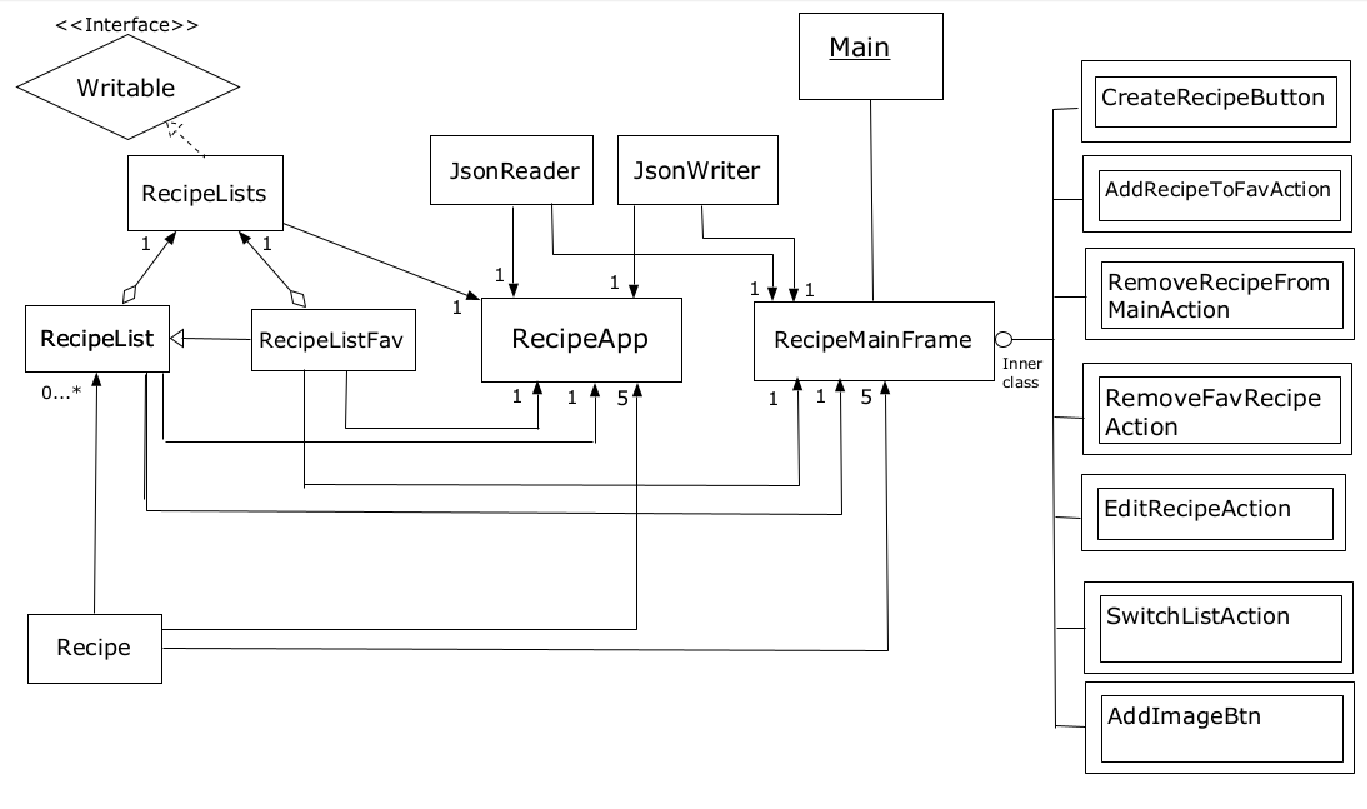
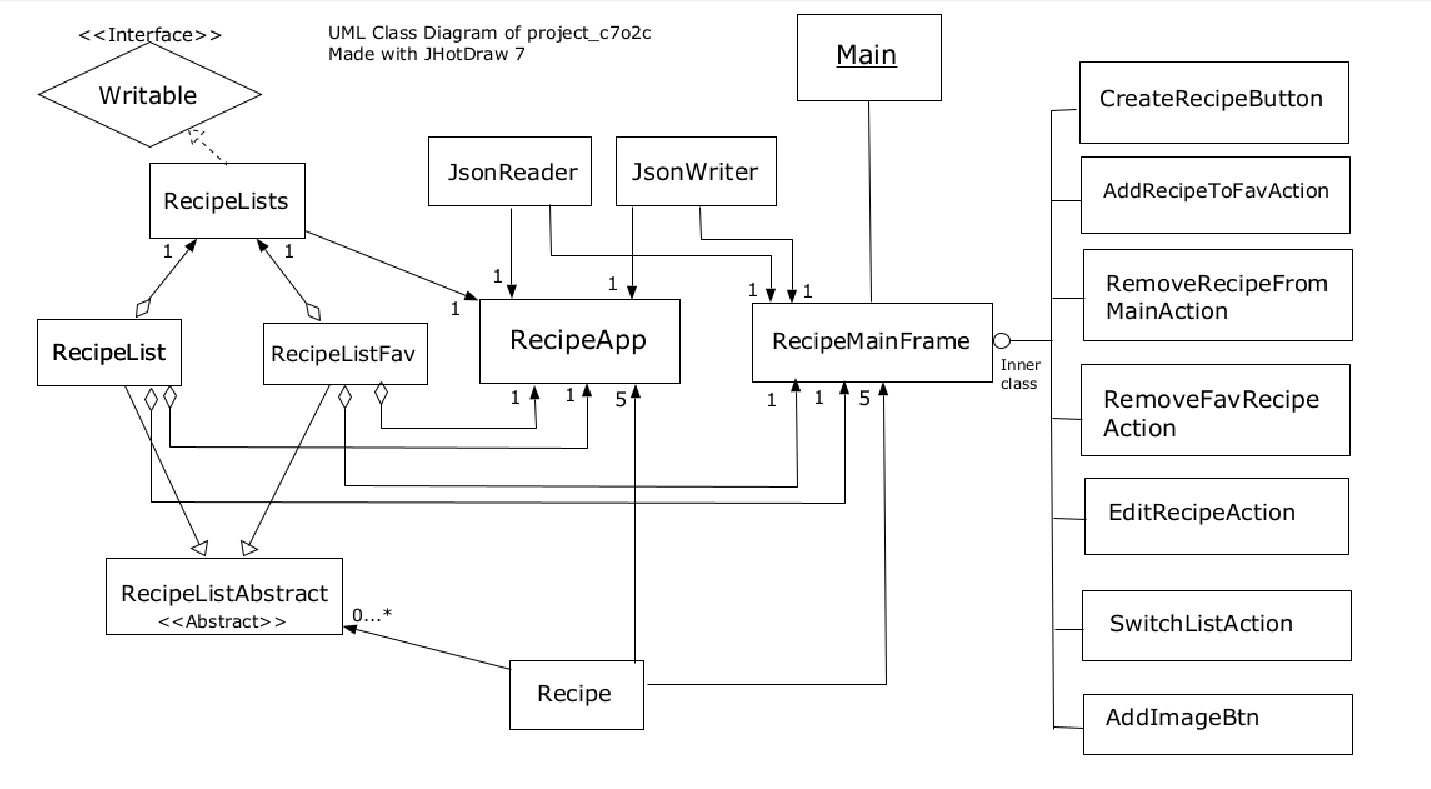
Added in an abstract class for recipe lists. Fixed event logging and improved implementation overall. Revised UML Design Diagram as a result.

diff --git a/src/main/model/RecipeList.java b/src/main/model/RecipeList.java
@@ -1,76 +1,36 @@
 package model;
 
-import java.util.ArrayList;
-import java.util.Collections;
-import java.util.List;
-
 /**
- * The main list of recipes. Users can add, remove, and search for recipes in this list.
+ * The main list of recipes.
+ * Users can add, remove, and search for recipes in this list.
  */
 
 // TODO:
-//  CHANGE: only allow one reference of the same recipe name in either list.
-//  Warn users of this and give option to change name
-public class RecipeList {
-    private String name;
-    private ArrayList<Recipe> recipeList;
+//  Change so removal of recipe in main list reflects on favourite list if recipe is also there.
+public class RecipeList extends RecipeListAbstract {
     private EventLog log = EventLog.getInstance();
 
-    // EFFECTS: creates the main recipe list with a name and an arrayList
+    // EFFECTS: creates the main recipe list
     public RecipeList(String name) {
-        this.name = name;
-        recipeList = new ArrayList<>();
+        super(name);
     }
 
-    // REQUIRES: assume that the recipe list doesn't already contain the same recipe
+    @Override
+    // REQUIRES: the recipe list doesn't already contain the same recipe
     // MODIFIES: this
-    // EFFECTS: adds recipe into the recipe list
+    // EFFECTS:  adds recipe into the recipe list
     public void addRecipe(Recipe recipe) {
-        recipeList.add(recipe);
+        super.addRecipe(recipe);
         log.logEvent(new Event("Added \"" + recipe.getRecipeName() + "\" into the main list!"));
     }
 
-    // !!! BUG: deleting reference from main list does not delete from favs
+    @Override
+    // !!! BUG: deleting recipe from main list does not delete from favs
     // REQUIRES: the recipe list to not be empty, assume recipe to be removed != null
     // MODIFIES: this
-    // EFFECTS: removes recipe from the recipe list
+    // EFFECTS:  removes recipe from the recipe list
     public void removeRecipe(Recipe recipe) {
-        recipeList.remove(recipe);
+        super.removeRecipe(recipe);
         log.logEvent(new Event("Removed \"" + recipe.getRecipeName() + "\" from the main list!"));
-    }
-
-    // REQUIRES: the recipe list to not be empty
-    // EFFECTS: searches the first recipe of the same name in the list, else returns null
-    public Recipe searchRecipe(String name) {
-        for (Recipe recipe : this.recipeList) {
-            if (recipe.getRecipeName().equalsIgnoreCase(name.toLowerCase())) {
-                return recipe;
-            }
-        }
-        return null;
-    }
-
-    // EFFECTS: returns the recipe at index (first recipe at 0)
-    public Recipe atIndex(int i) {
-        return recipeList.get(i);
-    }
-
-    // EFFECTS: returns a modifiable list of recipe list
-    public List<Recipe> getRecipeList() {
-        return this.recipeList;
-    }
-
-    // EFFECTS: returns an unmodifiable list of recipe list. Mainly for JSONWriter to save to JSON file
-    public List<Recipe> getRecipeListCollection() {
-        return Collections.unmodifiableList(recipeList);
-    }
-
-    // EFFECTS: returns size of the recipe list
-    public int size() {
-        return recipeList.size();
-    }
-
-    public String getName() {
-        return name;
     }
 }

diff --git a/src/main/persistence/JsonReader.java b/src/main/persistence/JsonReader.java
@@ -1,9 +1,6 @@
 package persistence;
 
-import model.Recipe;
-import model.RecipeList;
-import model.RecipeListFav;
-import model.RecipeLists;
+import model.*;
 import org.json.JSONArray;
 import org.json.JSONObject;
 
@@ -19,6 +16,7 @@ import java.util.stream.Stream;
  */
 public class JsonReader {
     private String source;
+    private EventLog log = EventLog.getInstance();
 
     // EFFECTS: constructs reader to read JSON data, with key from RecipeLists
     public JsonReader(String source) {
@@ -30,6 +28,8 @@ public class JsonReader {
     public RecipeLists read(String keyRecipeLists, String keyRecipeMain, String keyRecipeFav) throws IOException {
         String jsonData = readFile(source);
         JSONObject jsonObject = new JSONObject(jsonData);
+
+        log.logEvent(new Event("Loaded recipe list from file!"));
         return parseRecipeList(jsonObject, keyRecipeLists, keyRecipeMain, keyRecipeFav);
     }
 
@@ -40,7 +40,6 @@ public class JsonReader {
         try (Stream<String> stream = Files.lines(Paths.get(source), StandardCharsets.UTF_8)) {
             stream.forEach(s -> contentBuilder.append(s));
         }
-
         return contentBuilder.toString();
     }
 
@@ -60,7 +59,7 @@ public class JsonReader {
     }
 
     // EFFECTS: parses each recipe corresponding to its key in the JSON data and adds the recipes into the recipe list
-    private void addRecipes(RecipeList rl, JSONObject jsonObject) {
+    private void addRecipes(RecipeListAbstract rl, JSONObject jsonObject) {
         String key = rl.getName();
         JSONArray jsonArray = jsonObject.getJSONArray(key);
         for (Object json : jsonArray) {
@@ -70,7 +69,7 @@ public class JsonReader {
     }
 
     // EFFECTS: parses the recipe's field from the JSON object data and returns the recipe
-    private void addRecipe(RecipeList rl, JSONObject jsonObject) {
+    private void addRecipe(RecipeListAbstract rl, JSONObject jsonObject) {
         String name = jsonObject.getString("name");
         String category = jsonObject.getString("category");
         String ingredients = jsonObject.getString("ingredients");

diff --git a/src/main/model/RecipeListAbstract.java b/src/main/model/RecipeListAbstract.java
@@ -1,0 +1,67 @@
+package model;
+
+import java.util.ArrayList;
+import java.util.Collections;
+import java.util.List;
+
+/**
+ * Represents the default behaviours for a recipe list
+ */
+public abstract class RecipeListAbstract {
+    private String name;
+    private ArrayList<Recipe> recipeList;
+
+
+    public RecipeListAbstract(String name) {
+        this.name = name;
+        recipeList = new ArrayList<>();
+    }
+
+    // REQUIRES: for the recipe to have a name that is not null
+    // MODIFIES: this
+    // EFFECTS:  adds the recipe to the recipe list
+    public void addRecipe(Recipe recipe) {
+        recipeList.add(recipe);
+    }
+
+    // REQUIRES: for the recipe to be removed exists in the list
+    // MODIFIES: this
+    // EFFECTS:  removes the recipe from the recipe list
+    public void removeRecipe(Recipe recipe) {
+        recipeList.remove(recipe);
+    }
+
+    // EFFECTS: searches for the given recipe name in the recipe list and returns it
+    public Recipe searchRecipe(String name) {
+        for (Recipe recipe : this.recipeList) {
+            if (recipe.getRecipeName().equalsIgnoreCase(name.toLowerCase())) {
+                return recipe;
+            }
+        }
+        return null;
+    }
+
+    // EFFECTS: returns the recipe at index (first recipe at 0)
+    public Recipe atIndex(int i) {
+        return recipeList.get(i);
+    }
+
+    // EFFECTS: returns a modifiable list of recipe list
+    public List<Recipe> getRecipeList() {
+        return this.recipeList;
+    }
+
+    // EFFECTS: returns an unmodifiable list of recipe list. Mainly for JSONWriter to save to JSON file
+    public List<Recipe> getRecipeListCollection() {
+        return Collections.unmodifiableList(recipeList);
+    }
+
+    // EFFECTS: returns size of the recipe list
+    public int size() {
+        return recipeList.size();
+    }
+
+    public String getName() {
+        return name;
+    }
+}

diff --git a/src/main/model/RecipeListFav.java b/src/main/model/RecipeListFav.java
@@ -1,22 +1,31 @@
 package model;
 
 /**
- * The favourite list of recipes. Related to main list, so changes to a recipe should be reflected in both lists
+ * The favourite list of recipes.
+ * Related to main list, so changes to a recipe should be reflected in both lists
+ * (intent; not fully implemented yet)
  */
-public class RecipeListFav extends RecipeList {
+public class RecipeListFav extends RecipeListAbstract {
     private EventLog log = EventLog.getInstance();
 
-    // EFFECTS: creates a favourite recipe list
+    // EFFECTS: creates the favourite recipe list
     public RecipeListFav(String name) {
         super(name);
     }
 
-    // EFFECTS: adds a recipe to the favourite list. Calls the RecipeList method addRecipe
+    @Override
+    // REQUIRES: recipe to have a name that is not null
+    // MODIFIES: this
+    // EFFECTS:  adds a recipe to the favourite list
     public void addRecipe(Recipe recipe) {
         super.addRecipe(recipe);
+        log.logEvent(new Event("Added \"" + recipe.getRecipeName() + "\" into the favourite list!"));
     }
 
-    // EFFECTS: removes a recipe from the favourite list. Calls the RecipeList method removeRecipe
+    @Override
+    // REQUIRES: recipe to be in the recipe list
+    // MODIFIES: this
+    // EFFECTS:  removes a recipe from the favourite list
     public void removeRecipe(Recipe recipe) {
         super.removeRecipe(recipe);
         log.logEvent(new Event("Removed \"" + recipe.getRecipeName() + "\" from the favourite list!"));

diff --git a/src/main/ui/RecipeMainFrame.java b/src/main/ui/RecipeMainFrame.java
@@ -477,8 +477,6 @@ public class RecipeMainFrame extends JFrame implements ActionListener {
         try {
             recipeLists = jsonReader.read(keyRecipeLists, keyRecipeListMain, keyRecipeListFav);
             // !!! load separate json file representing images
-
-            System.out.println(recipeSelected);
             recipeList = recipeLists.getRecipeList();
             recipeListFav = recipeLists.getRecipeListFav();
 
@@ -834,7 +832,6 @@ public class RecipeMainFrame extends JFrame implements ActionListener {
         @Override
         public void actionPerformed(ActionEvent e) {
             if (state == 0) {
-                System.out.println(modelMain);
                 modelMain.removeAllElements();
                 favList();
                 favButtonPanels();

diff --git a/src/main/persistence/JsonWriter.java b/src/main/persistence/JsonWriter.java
@@ -1,8 +1,6 @@
 package persistence;
 
-import model.RecipeList;
-import model.RecipeListFav;
-import model.RecipeLists;
+import model.*;
 import org.json.JSONObject;
 
 import java.io.*;
@@ -14,6 +12,7 @@ public class JsonWriter {
     private static final int TAB = 4;
     private PrintWriter writer;
     private String destination;
+    private EventLog log = EventLog.getInstance();
 
     // EFFECTS: constructs writer to write to destination file
     public JsonWriter(String destination) {
@@ -45,5 +44,6 @@ public class JsonWriter {
     // EFFECTS: writes string to file
     private void saveToFile(String json) {
         writer.print(json);
+        log.logEvent(new Event("Saved recipe list to file!"));
     }
 }

diff --git a/src/main/model/Recipe.java b/src/main/model/Recipe.java
@@ -4,7 +4,7 @@ import org.json.JSONObject;
 import persistence.Writable;
 
 /**
- * The Recipe class, representing a recipe with a name, category, ingredients, and steps.
+ * The recipe class, representing a recipe with a name, category, ingredients, and steps.
  */
 
 // TODO:
@@ -24,7 +24,7 @@ public class Recipe implements Writable {
         this.category = category;
         this.ingredients = ingredients;
         this.steps = steps;
-        log.logEvent(new Event("Created a New Recipe: " + name)); // First logs 5 default recipes
+        log.logEvent(new Event("Created a New Recipe: " + name));
     }
 
     // MODIFIES: this, log

diff --git a/src/main/model/RecipeLists.java b/src/main/model/RecipeLists.java
@@ -30,7 +30,7 @@ public class RecipeLists implements Writable {
     }
 
     // EFFECTS: returns recipes in a list as a JSON array
-    private JSONArray recipesToJson(RecipeList recipeList) {
+    private JSONArray recipesToJson(RecipeListAbstract recipeList) {
         JSONArray jsonArray = new JSONArray();
 
         for (int i = 0;i < recipeList.size();i++) {

diff --git a/src/main/ui/RecipeApp.java b/src/main/ui/RecipeApp.java
@@ -70,7 +70,7 @@ public class RecipeApp {
                 displayMenuQuitPrompt();
                 command = readCommand();
                 if (command.equals("y")) {
-                    run = false;
+                    System.exit(0);
                 }
                 System.out.println("Cancelled quit prompt");
             } else {

diff --git a/src/main/persistence/Writable.java b/src/main/persistence/Writable.java
@@ -3,7 +3,7 @@ package persistence;
 import org.json.JSONObject;
 
 /**
- * Describes the behaviour for writing into a JSON file
+ * Represents the behaviour for writing into a JSON file
  */
 public interface Writable {
     // EFFECTS: returns this as JSON object

diff --git a/src/test/model/EventTest.java b/src/test/model/EventTest.java
@@ -38,6 +38,6 @@ public class EventTest {
 
 	@Test
 	public void testToString() {
-		assertEquals(seq + ":" + "New Recipe Added: A New Recipe", e.toString());
+		assertEquals(seq + ": " + "New Recipe Added: A New Recipe", e.toString());
 	}
 }

diff --git a/src/main/model/Event.java b/src/main/model/Event.java
@@ -61,6 +61,6 @@ public class Event {
     public String toString() {
         int prevNum = num;
         num++;
-        return prevNum + ":" + description;
+        return prevNum + ": " + description;
     }
 }
